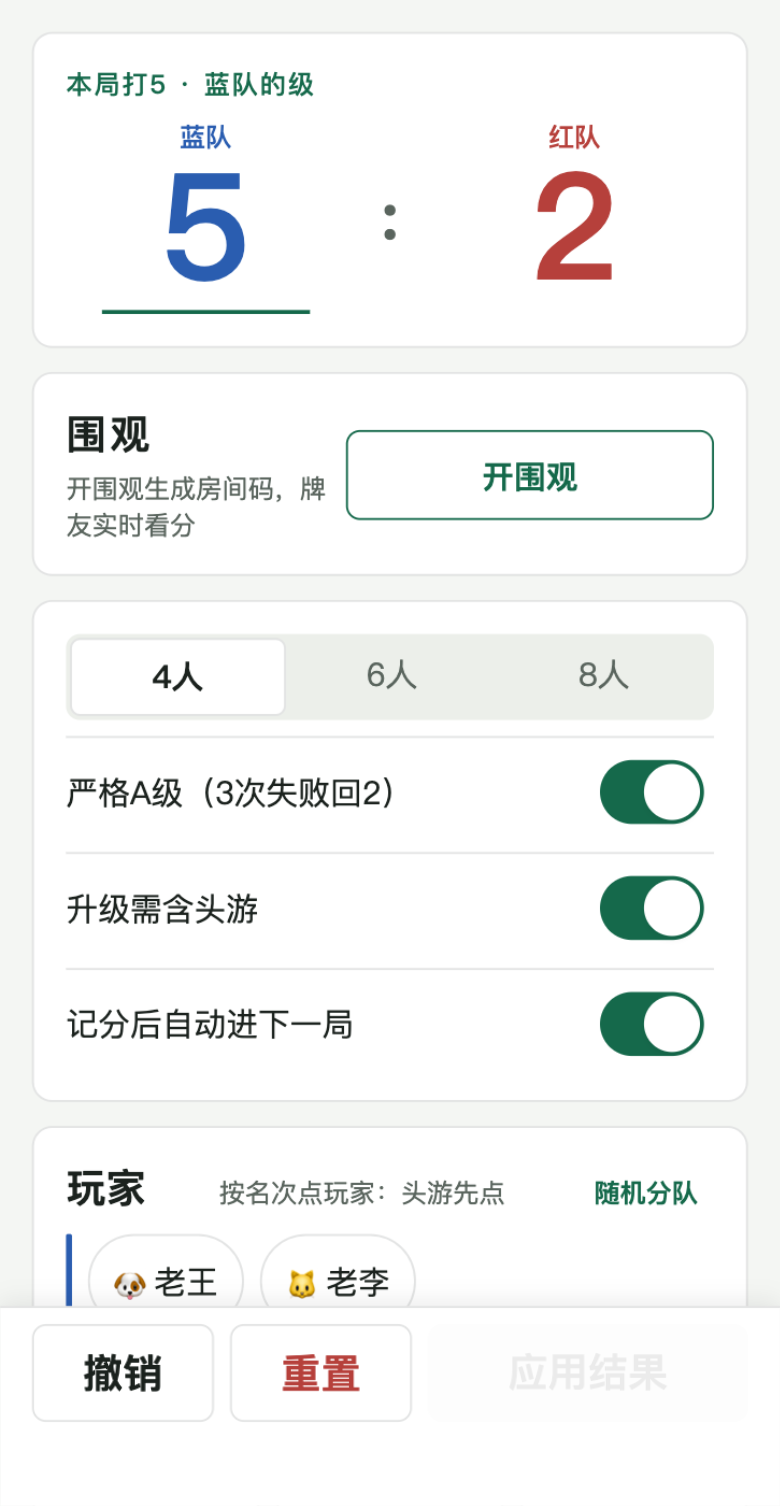
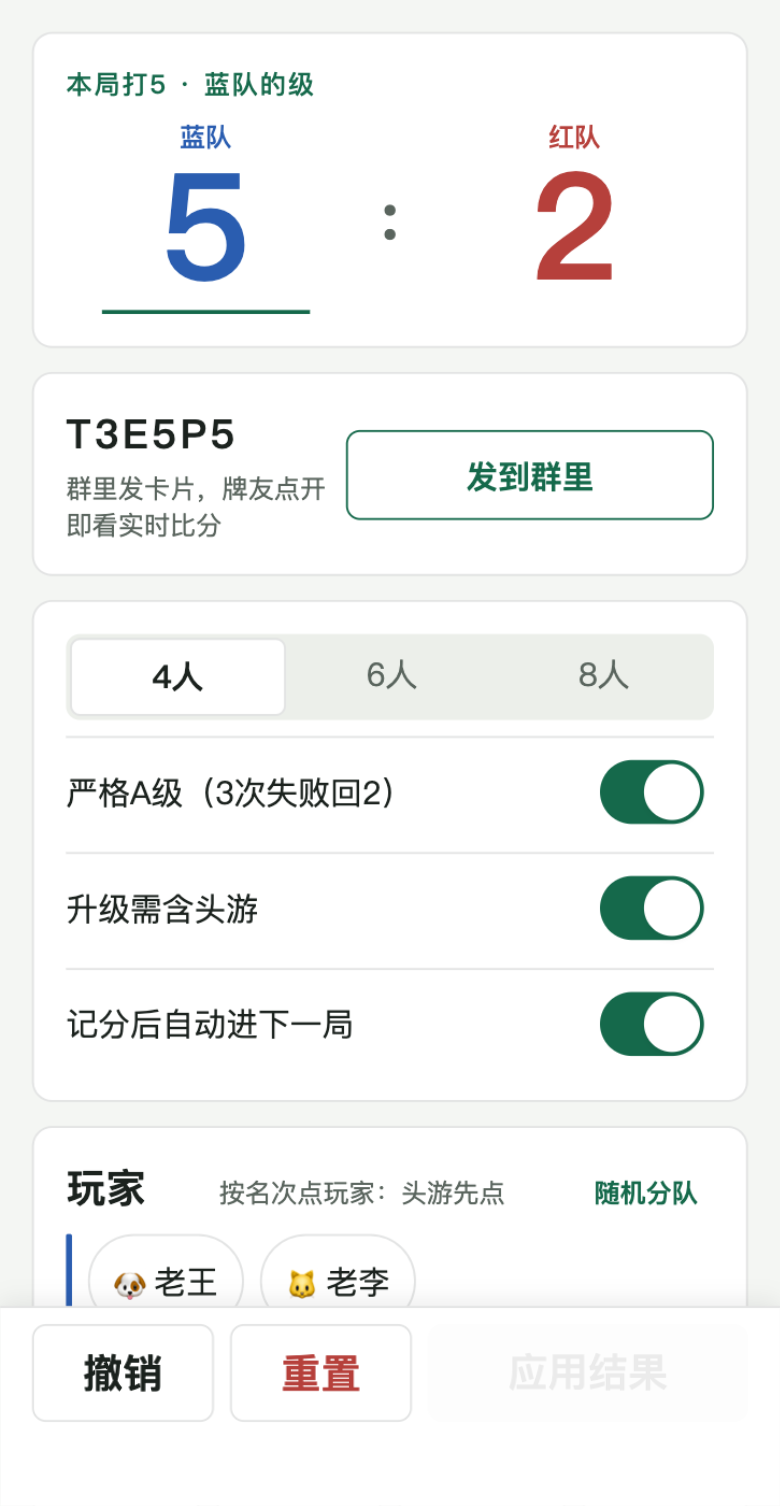
test: 新增面 E2E（天梯页/长图海报/荣誉caption）+ PLAN 状态收口
- scripts/automator/ladder-poster-players.mjs：5局通关 setup → 历史页 caption 回归 →
  buildPosterLayout 真机上下文断言 + #posterCanvas 实绘导出 PNG → 天梯榜列表/详情
- app.ts 暴露 buildPosterLayout（E2E 校验用，纯函数无副作用）
- PLAN.md：下一 session 清单 4 项全部勾掉，WXAPP-9 spec 落档

Changed region(s): [[0.0615, 0.2497, 0.4308, 0.3745], [0.5846, 0.2809, 0.7692, 0.3433]]

diff --git a/miniprogram/app.ts b/miniprogram/app.ts
@@ -1,9 +1,12 @@
 import { getStore } from './core/appStore.js';
 import { ENV_ID } from './core/cloudConfig.js';
+import { buildPosterLayout } from './core/poster.js';
 
 App({
   // 暴露给 automator E2E（getApp().store 直驱编排层做测试 setup）；页面代码用 core/appStore.js 的 getStore()
   store: getStore(),
+  // 同上：E2E 校验长图布局（纯函数，无副作用）
+  buildPosterLayout,
   onLaunch() {
     if (wx.cloud) {
       wx.cloud.init({ env: ENV_ID, traceUser: true });